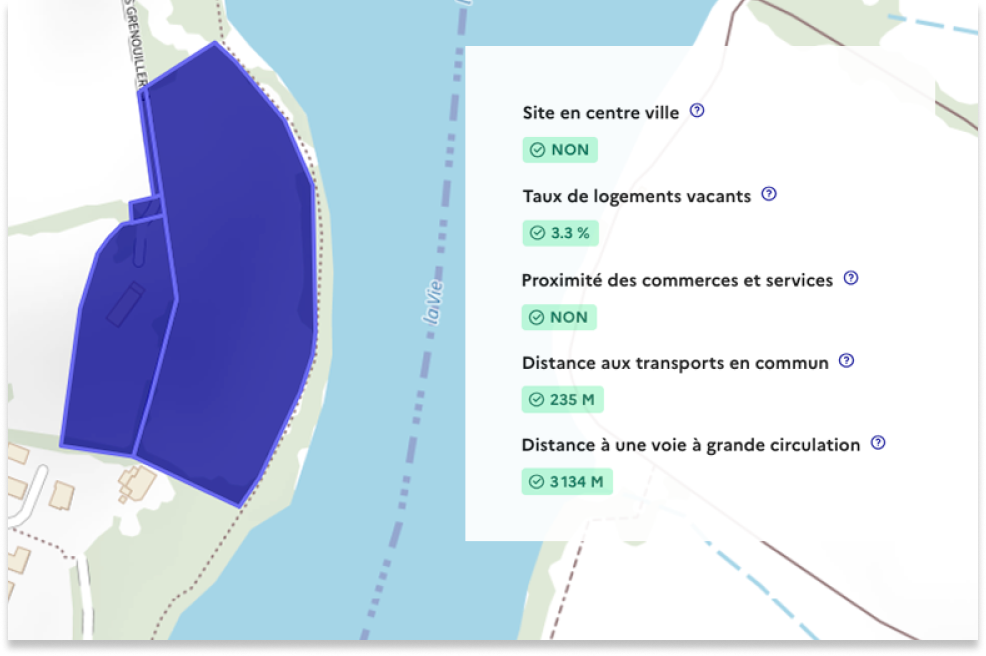
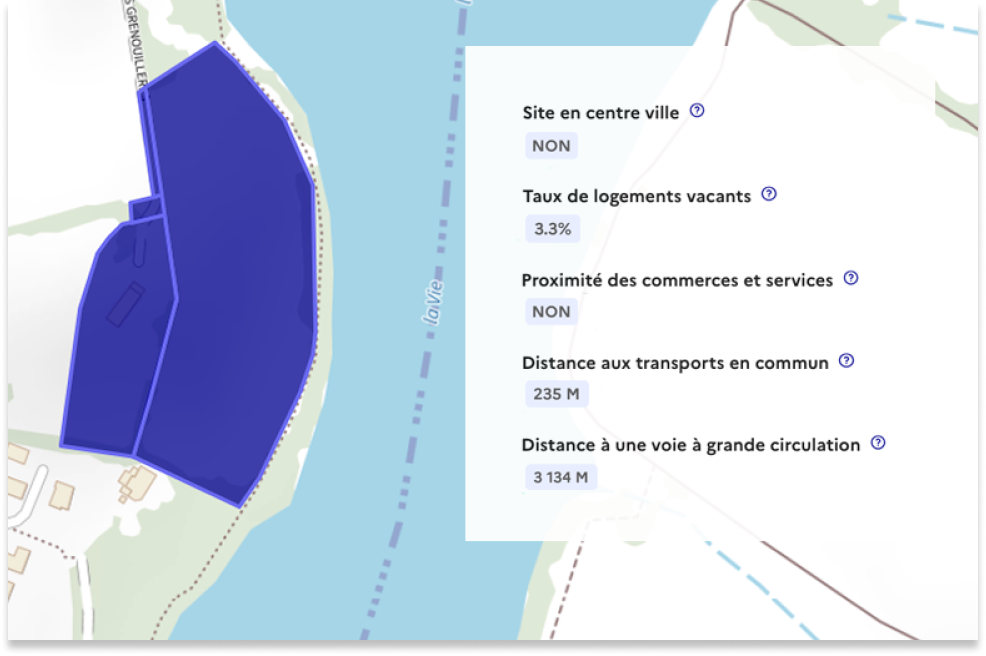
fix(ui): visuel et alignements de la landing
Nouveau visuel de l'étape 1, titres numérotés en retrait et bouton Utiliser Mutafriches aligné sur son paragraphe, conformément à la maquette.

diff --git a/apps/ui/src/features/landing/components/CommentCaMarcheSection.tsx b/apps/ui/src/features/landing/components/CommentCaMarcheSection.tsx
@@ -1,3 +1,4 @@
+import type { ReactNode } from "react";
 import { Link } from "react-router-dom";
 import { ROUTES } from "../../../shared/config/routes.config";
 
@@ -7,6 +8,19 @@ const SOURCES_PRINCIPALES: { nom: string; src: string }[] = [
   { nom: "Géorisques", src: "/images/logos/sources/georisques.png" },
   { nom: "BD TOPO", src: "/images/logos/sources/bd-topo.png" },
 ];
+
+// Numéro en colonne : les lignes suivantes du titre s'alignent sur le texte, pas sous le numéro.
+function TitreEtape({ numero, children }: { numero: number; children: ReactNode }) {
+  return (
+    <h3
+      className="fr-mb-2w flex gap-[0.4em]"
+      style={{ color: "var(--text-action-high-blue-france)" }}
+    >
+      <span>{numero}.</span>
+      <span>{children}</span>
+    </h3>
+  );
+}
 
 export function CommentCaMarcheSection() {
   return (
@@ -21,9 +35,9 @@ export function CommentCaMarcheSection() {
         >
           <div className="fr-grid-row fr-grid-row--gutters fr-grid-row--middle">
             <div className="fr-col-12 fr-col-md-7">
-              <h3 className="fr-mb-2w" style={{ color: "var(--text-action-high-blue-france)" }}>
-                1. Mutafriches qualifie vos sites à partir de bases de données nationales
-              </h3>
+              <TitreEtape numero={1}>
+                Mutafriches qualifie vos sites à partir de bases de données nationales
+              </TitreEtape>
               <p className="fr-mb-2w">
                 Une fois les parcelles de vos sites définies, Mutafriches interroge plus de{" "}
                 <strong>19 critères déterminants</strong> issus des bases de données ouvertes
@@ -74,9 +88,9 @@ export function CommentCaMarcheSection() {
         <div style={{ padding: "2.5rem", backgroundColor: "#f1f7ff", borderRadius: "24px" }}>
           <div className="fr-grid-row fr-grid-row--gutters fr-grid-row--middle">
             <div className="fr-col-12 fr-col-md-7">
-              <h3 className="fr-mb-2w" style={{ color: "var(--text-action-high-blue-france)" }}>
-                2. Mutafriches évalue la mutabilité de vos sites pour 7 usages
-              </h3>
+              <TitreEtape numero={2}>
+                Mutafriches évalue la mutabilité de vos sites pour 7 usages
+              </TitreEtape>
               <p className="fr-mb-3w">
                 Sur la base des critères de qualification, une{" "}
                 <strong>analyse de mutabilité</strong> permet d&apos;évaluer la compatibilité de vos

diff --git a/apps/ui/src/features/landing/components/IntegrationSection.tsx b/apps/ui/src/features/landing/components/IntegrationSection.tsx
@@ -30,11 +30,9 @@ export function IntegrationSection() {
               mobilisable.
             </p>
 
-            <div className="text-center">
-              <Link to={ROUTES.INTEGRER} className="fr-btn">
-                Découvrir comment utiliser Mutafriches
-              </Link>
-            </div>
+            <Link to={ROUTES.INTEGRER} className="fr-btn">
+              Découvrir comment utiliser Mutafriches
+            </Link>
           </div>
         </div>
       </div>
